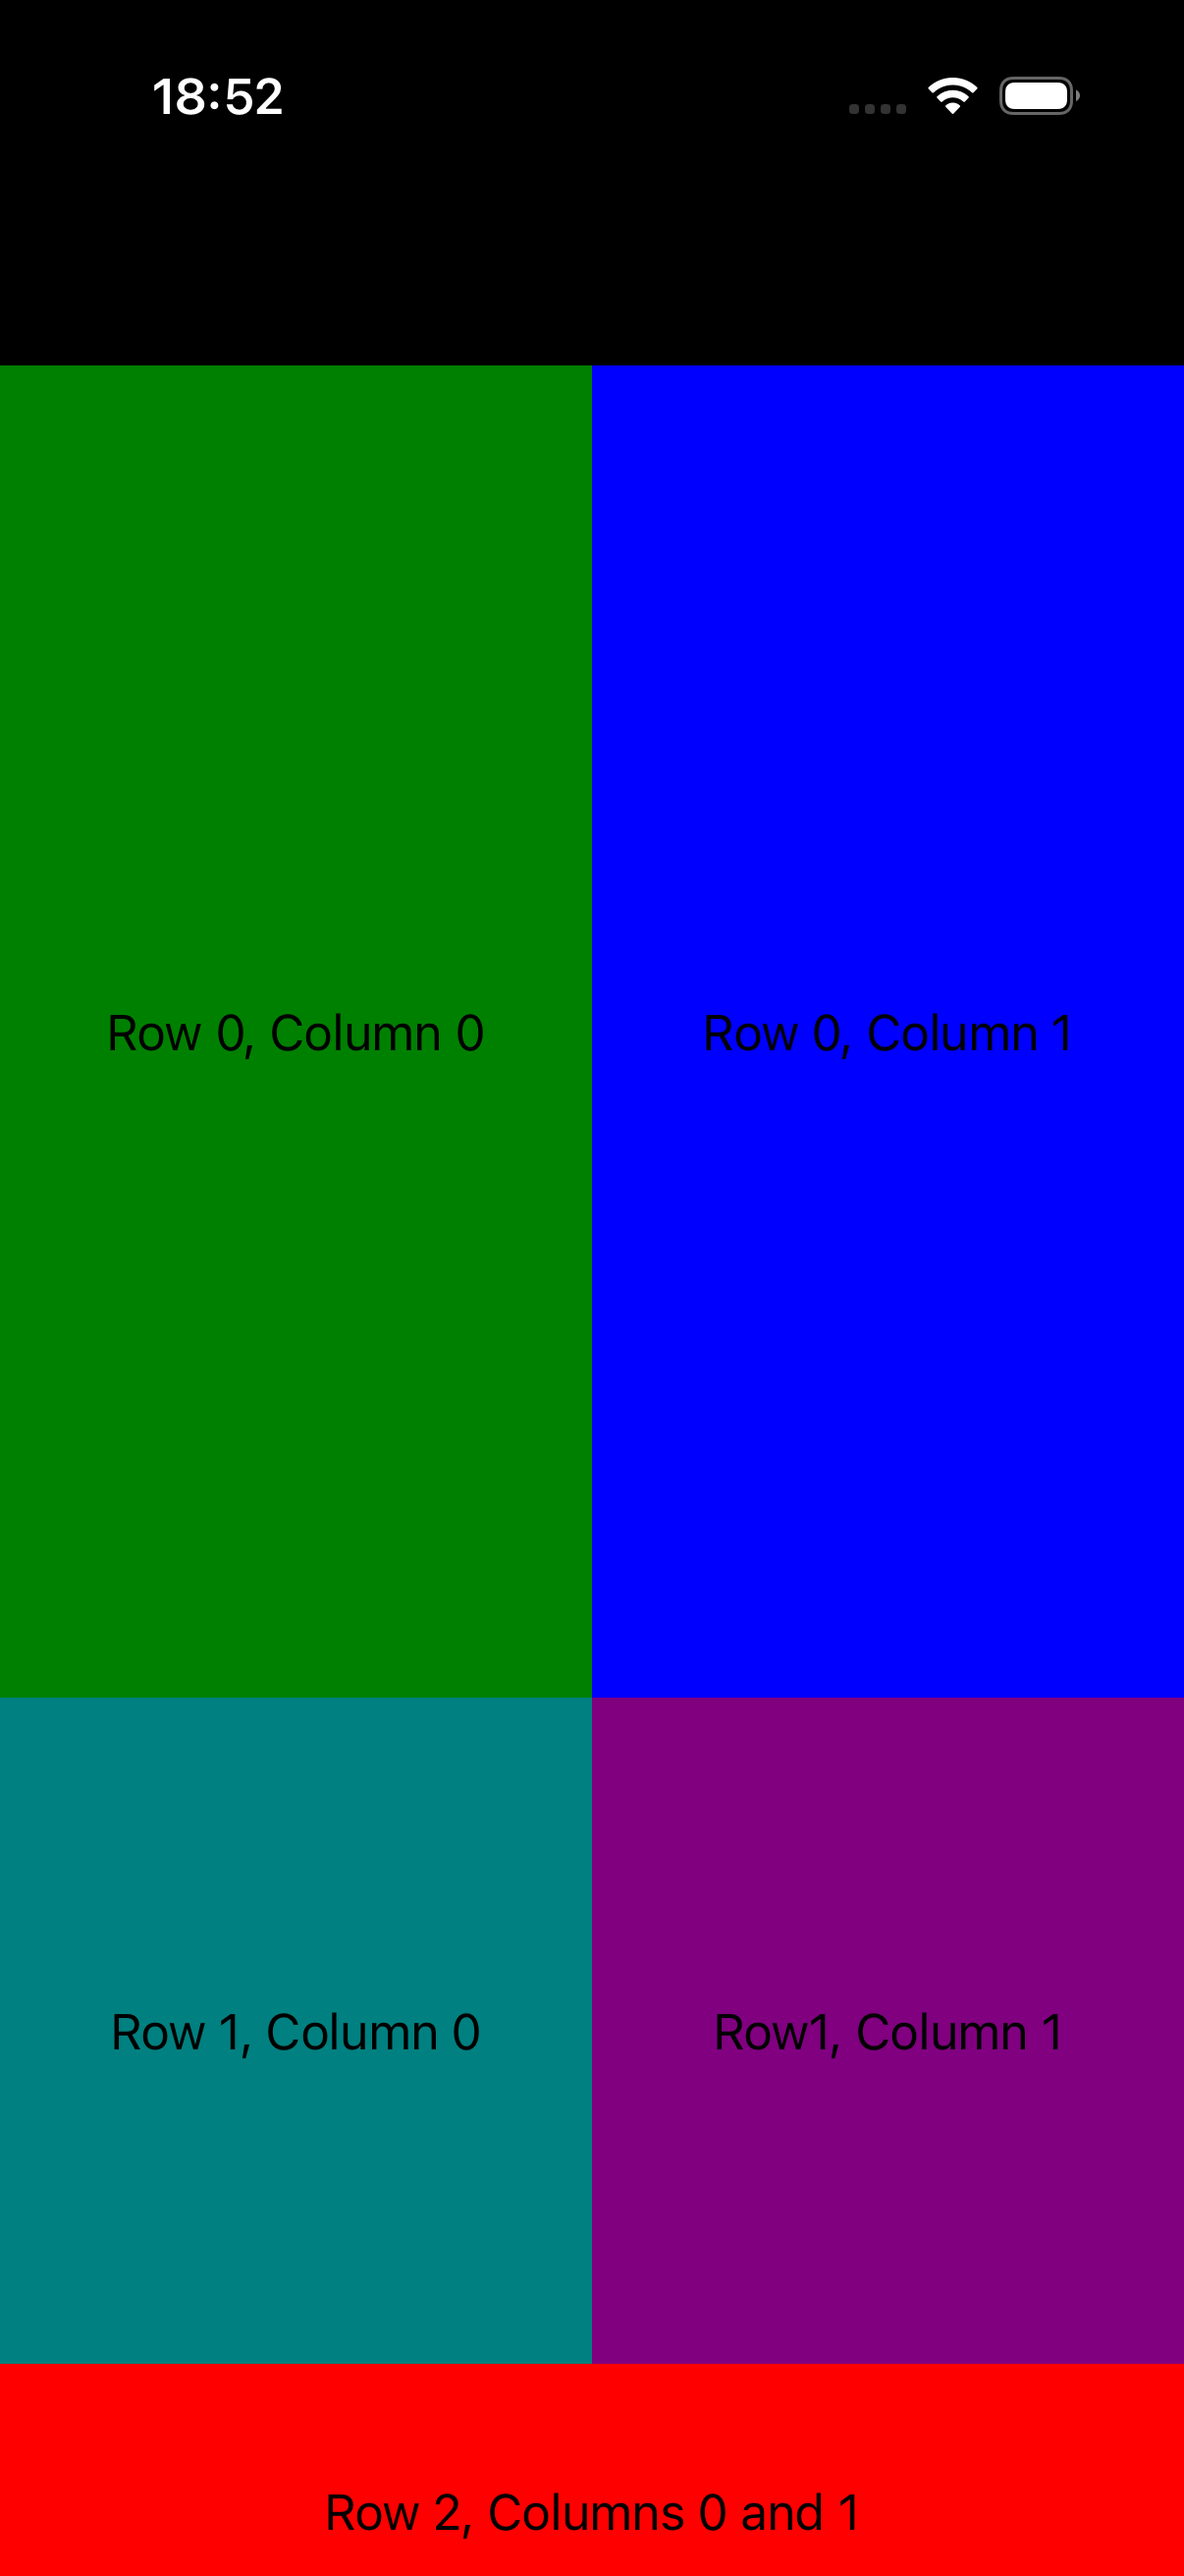
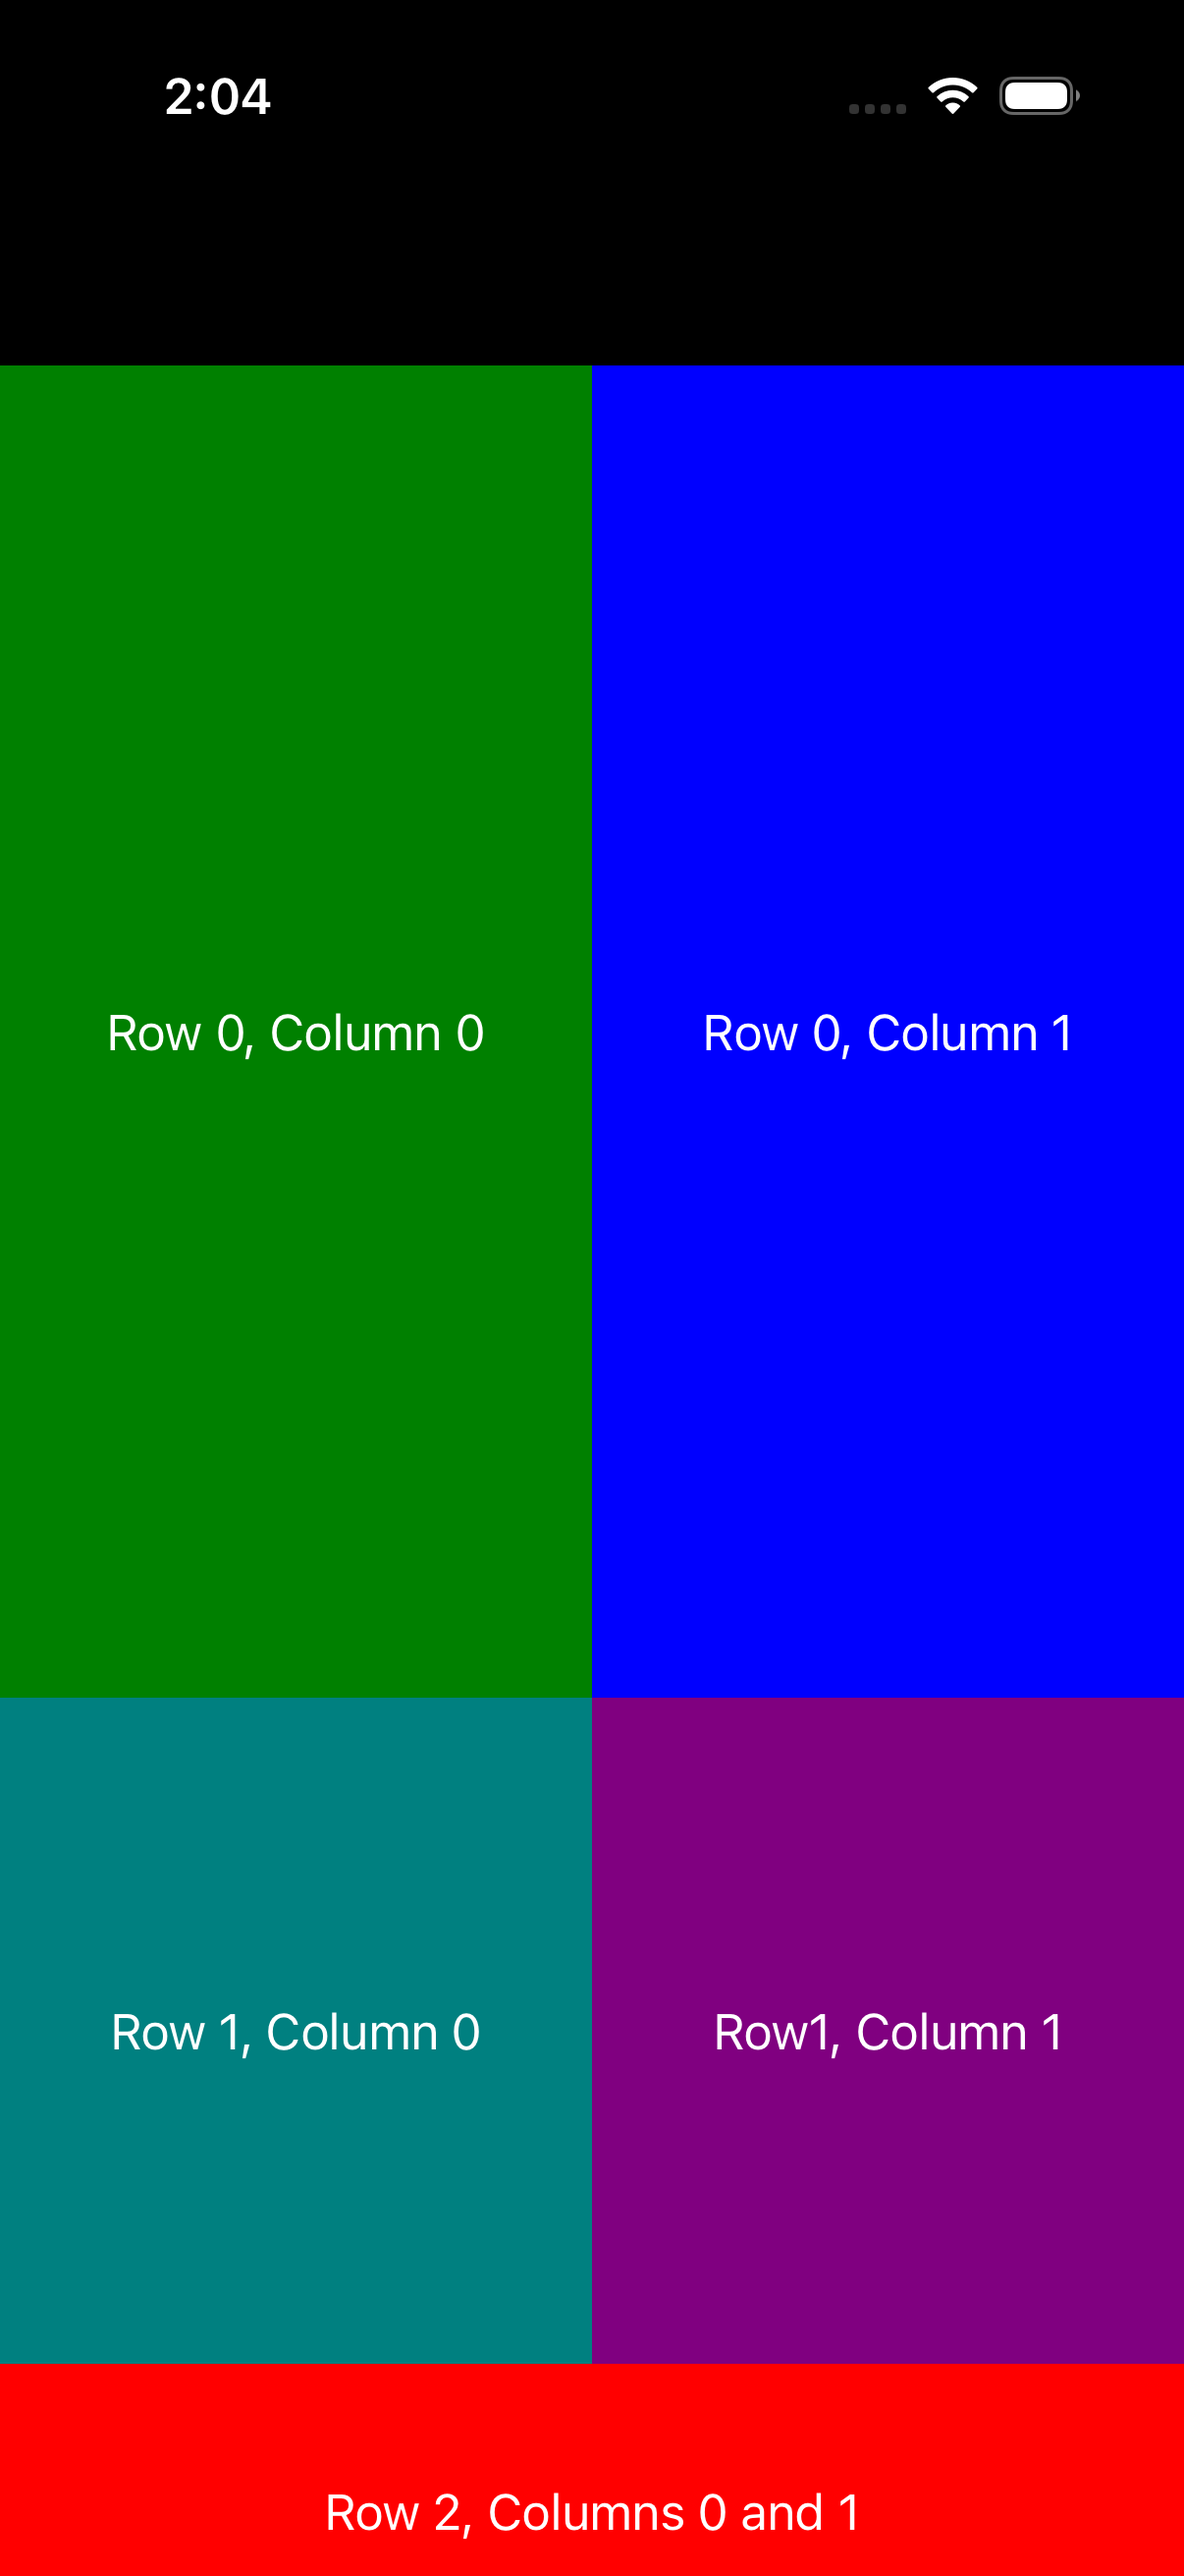
docs(parity): #34 grid — minor (different demos)
C++ faithfully ports GridPage.xaml (3 rows 2*/*/100, 2 star cols,
colored cells + centered captions, red bottom row spanning both columns,
fills the page); the maui-compare reference uses its own simplified
'Grid (2 cols x rows)' fixed-box demo. C++ grid layout verified correct
in both themes: star-sizing (2* row twice the * row), fixed 100-unit
row, working ColumnSpan, theme-aware captions. Not a port bug — no code
change. Tracker -> minor L/D.

diff --git a/port/cpp/docs/comparison/README.md b/port/cpp/docs/comparison/README.md
@@ -2,7 +2,7 @@
 
 Theme-matched iOS comparison: each page rendered by **real .NET MAUI** vs the **C++ port**, on the same iPhone 17 simulator, compared **light-vs-light** and **dark-vs-dark**. Both stacks render native-default controls + the system font (the C# app's `dotnet new maui` default `Styles.xaml` + OpenSans are stripped; appearance forced via `MAUI_THEME` / `MAUI_APPEARANCE`). Goal: pixel-perfect parity, fixed example-by-example.
 
-**Progress: 0 / 172 🟢 matched** · 29 🟡 minor · 49 🔴 diff · 94 ⬜ pending
+**Progress: 0 / 172 🟢 matched** · 31 🟡 minor · 48 🔴 diff · 93 ⬜ pending
 
 Status legend: 🟢 pixel-match (both themes) · 🟡 minor diff · 🔴 notable diff to fix · ⬜ not yet reviewed. Per-theme verdicts in `parity_status.json`.
 
@@ -45,7 +45,7 @@ Rows are in **fix order** (top → bottom): foundational single controls first (
 | 31 | Stack Layout | 🔴<br>L:diff<br>D:diff | ![](csharp_ios_light/stack_layout.png) | ![](cpp_ios_light/stack_layout.png) | ![](csharp_ios_dark/stack_layout.png) | ![](cpp_ios_dark/stack_layout.png) |
 | 32 | Vertical Stack | 🟡<br>L:minor<br>D:minor | ![](csharp_ios_light/vertical_stack.png) | ![](cpp_ios_light/vertical_stack.png) | ![](csharp_ios_dark/vertical_stack.png) | ![](cpp_ios_dark/vertical_stack.png) |
 | 33 | Horizontal Stack | 🟡<br>L:minor<br>D:minor | ![](csharp_ios_light/horizontal_stack.png) | ![](cpp_ios_light/horizontal_stack.png) | ![](csharp_ios_dark/horizontal_stack.png) | ![](cpp_ios_dark/horizontal_stack.png) |
-| 34 | Grid | ⬜<br>L:pending<br>D:pending | ![](csharp_ios_light/grid.png) | ![](cpp_ios_light/grid.png) | ![](csharp_ios_dark/grid.png) | ![](cpp_ios_dark/grid.png) |
+| 34 | Grid | 🟡<br>L:minor<br>D:minor | ![](csharp_ios_light/grid.png) | ![](cpp_ios_light/grid.png) | ![](csharp_ios_dark/grid.png) | ![](cpp_ios_dark/grid.png) |
 | 35 | Absolute Layout | 🔴<br>L:diff<br>D:diff | ![](csharp_ios_light/absolute_layout.png) | ![](cpp_ios_light/absolute_layout.png) | ![](csharp_ios_dark/absolute_layout.png) | ![](cpp_ios_dark/absolute_layout.png) |
 | 36 | Flex Layout | ⬜<br>L:pending<br>D:pending | ![](csharp_ios_light/flex_layout.png) | ![](cpp_ios_light/flex_layout.png) | ![](csharp_ios_dark/flex_layout.png) | ![](cpp_ios_dark/flex_layout.png) |
 | 37 | Relative Layout | ⬜<br>L:pending<br>D:pending | ![](csharp_ios_light/relative_layout.png) | ![](cpp_ios_light/relative_layout.png) | ![](csharp_ios_dark/relative_layout.png) | ![](cpp_ios_dark/relative_layout.png) |
@@ -181,6 +181,6 @@ Rows are in **fix order** (top → bottom): foundational single controls first (
 | 167 | Title Bar | ⬜<br>L:pending<br>D:pending | ![](csharp_ios_light/title_bar.png) | ![](cpp_ios_light/title_bar.png) | ![](csharp_ios_dark/title_bar.png) | ![](cpp_ios_dark/title_bar.png) |
 | 168 | Chrome | 🔴<br>L:diff<br>D:blank | ![](csharp_ios_light/chrome.png) | ![](cpp_ios_light/chrome.png) | ![](csharp_ios_dark/chrome.png) | ![](cpp_ios_dark/chrome.png) |
 | 169 | Context Flyout | 🔴<br>L:diff<br>D:diff | ![](csharp_ios_light/context_flyout.png) | ![](cpp_ios_light/context_flyout.png) | ![](csharp_ios_dark/context_flyout.png) | ![](cpp_ios_dark/context_flyout.png) |
-| 170 | Templated View | 🔴<br>L:diff<br>D:diff | ![](csharp_ios_light/templated_view.png) | ![](cpp_ios_light/templated_view.png) | ![](csharp_ios_dark/templated_view.png) | ![](cpp_ios_dark/templated_view.png) |
+| 170 | Templated View | 🟡<br>L:minor<br>D:minor | ![](csharp_ios_light/templated_view.png) | ![](cpp_ios_light/templated_view.png) | ![](csharp_ios_dark/templated_view.png) | ![](cpp_ios_dark/templated_view.png) |
 | 171 | Custom Layout | ⬛<br>L:blank<br>D:blank | ![](csharp_ios_light/custom_layout.png) | ![](cpp_ios_light/custom_layout.png) | ![](csharp_ios_dark/custom_layout.png) | ![](cpp_ios_dark/custom_layout.png) |
 | 172 | Visual States | ⬜<br>L:pending<br>D:pending | ![](csharp_ios_light/visual_states.png) | ![](cpp_ios_light/visual_states.png) | ![](csharp_ios_dark/visual_states.png) | ![](cpp_ios_dark/visual_states.png) |
